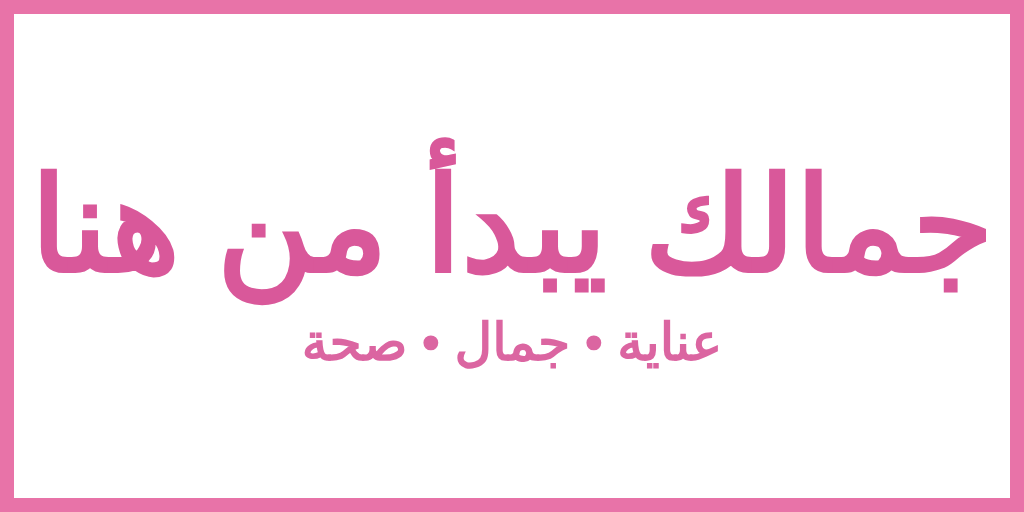
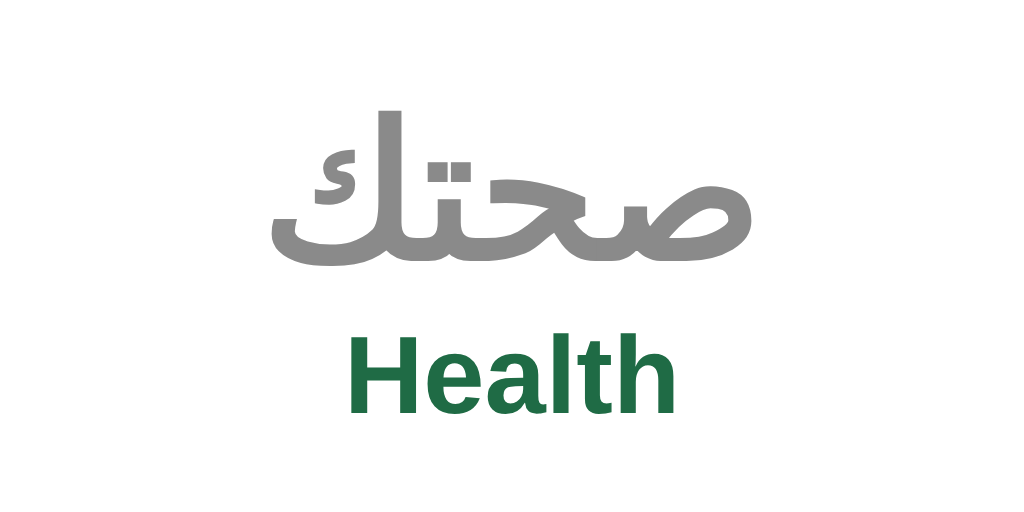
Wall boards in the style of the real branches: watercolour splashes and plain lettering [skip ci]
Claude-Session: https://claude.ai/code/session_011Bqe7REfYteQ2eG9a3xsq3

Changed region(s): [[0.0, 0.0, 1.0, 1.0], [0.2812, 0.625, 0.7188, 0.8125]]

diff --git a/static/plan.html b/static/plan.html
@@ -1536,20 +1536,29 @@ function build(renderer){
   // ---------- iBrand boards high on the walls ----------
   {
     const dots = (x, W, Hh, col) => { x.fillStyle = col; [[.08,.2,90],[.9,.78,130],[.82,.14,46],[.16,.86,60],[.5,1.05,170]].forEach(([u, v, r]) => { x.beginPath(); x.arc(u*W, v*Hh, r, 0, Math.PI*2); x.fill(); }); };
-    const two = (x, W, big, small, c1, c2) => { x.textAlign = 'center'; x.textBaseline = 'middle'; x.direction = 'rtl';
-      x.fillStyle = c1; fitText(x, big, W - 160, 800, 150); x.fillText(big, W/2, 185);
-      x.fillStyle = c2; fitText(x, small, W - 220, 700, 60); x.fillText(small, W/2, 335); };
-    const pinkB = (big, small) => canvasTex(1024, 448, (x, W, Hh) => { const g = x.createLinearGradient(0, 0, W, Hh); g.addColorStop(0, '#f08bbb'); g.addColorStop(1, '#c9518b'); x.fillStyle = g; x.fillRect(0, 0, W, Hh); dots(x, W, Hh, 'rgba(255,255,255,.13)'); two(x, W, big, small, '#ffffff', 'rgba(255,255,255,.92)'); });
-    const whiteB = (big, small) => canvasTex(1024, 448, (x, W, Hh) => { x.fillStyle = '#ffffff'; x.fillRect(0, 0, W, Hh); dots(x, W, Hh, 'rgba(232,115,168,.12)'); x.strokeStyle = PINK; x.lineWidth = 18; x.strokeRect(9, 9, W - 18, Hh - 18); two(x, W, big, small, PINK_DEEP, PLUM); });
-    // the kind of lines real pharmacies hang on their walls
+    // boards in the style of the real iBrand branches: white wall, a watercolour splash with a short line, or plain lettering
+    const splash = (x, cx, cy, rx, ry, cols, seed) => { let sd = seed; const rnd = () => (sd = (sd * 16807) % 2147483647) / 2147483647;
+      for (let i = 0; i < 70; i++){ const a = rnd() * Math.PI * 2, d = Math.sqrt(rnd()), px = cx + Math.cos(a) * d * rx, py = cy + Math.sin(a) * d * ry, r = (.28 + rnd() * .5) * ry * (1.15 - d * .55);
+        const g = x.createRadialGradient(px, py, 0, px, py, r), c = cols[(rnd() * cols.length) | 0]; g.addColorStop(0, c + 'aa'); g.addColorStop(.7, c + '66'); g.addColorStop(1, c + '00');
+        x.fillStyle = g; x.beginPath(); x.arc(px, py, r, 0, Math.PI * 2); x.fill(); } };
+    const base = (x, W, Hh) => { x.fillStyle = '#ffffff'; x.fillRect(0, 0, W, Hh); x.textAlign = 'center'; x.textBaseline = 'middle'; };
+    // the line sits inside the splash, in white
+    const splashB = (big, cols, seed) => canvasTex(1024, 448, (x, W, Hh) => { base(x, W, Hh); splash(x, W/2, Hh/2, 300, 150, cols, seed);
+      x.direction = 'rtl'; x.fillStyle = '#ffffff'; fitText(x, big, 480, 800, 150); x.fillText(big, W/2, Hh/2 + 4); });
+    // a splash above, the line under it in two languages
+    const underB = (ar, en, cols, cEn, seed) => canvasTex(1024, 448, (x, W, Hh) => { base(x, W, Hh); splash(x, W/2, 140, 210, 95, cols, seed);
+      x.direction = 'ltr'; x.fillStyle = cEn; x.font = '700 62px Arial, sans-serif'; x.fillText(en, W/2, 300);
+      x.direction = 'rtl'; x.fillStyle = '#1d1d1f'; fitText(x, ar, W - 200, 800, 78); x.fillText(ar, W/2, 385); });
+    // plain lettering on the white wall
+    const plainB = (ar, en, cAr, cEn) => canvasTex(1024, 448, (x, W, Hh) => { base(x, W, Hh);
+      x.direction = 'rtl'; x.fillStyle = cAr; fitText(x, ar, W - 200, 800, 170); x.fillText(ar, W/2, 165);
+      x.direction = 'ltr'; x.fillStyle = cEn; x.font = '800 96px Arial, sans-serif'; x.fillText(en, W/2, 335); });
     const boards = [
-      pinkB('صحتك أولاً', 'صيدليات اي براند'),
-      canvasTex(1024, 448, (x, W, Hh) => { x.fillStyle = PLUM; x.fillRect(0, 0, W, Hh); dots(x, W, Hh, 'rgba(232,115,168,.2)');
-        x.fillStyle = PINK; x.textAlign = 'center'; x.textBaseline = 'middle'; x.direction = 'ltr'; x.font = '800 190px Arial, sans-serif'; x.fillText('iBRAND', W/2, 180);
-        x.fillStyle = '#ffffff'; x.direction = 'rtl'; fitText(x, 'اي براند', W - 150, 700, 80); x.fillText('اي براند', W/2, 340); }),
-      whiteB('جمالك يبدأ من هنا', 'عناية • جمال • صحة'),
-      pinkB('عنايتك تهمنا', 'صيدليات اي براند'),
-      whiteB('لكل أفراد العائلة', 'كل ما تحتاجه في مكان واحد')
+      splashB('لجمالك', ['#d98bb0', '#8e4a8f', '#c0669e', '#6f3a78'], 11),
+      plainB('صحتك', 'Health', '#8a8a8a', '#1f6b45'),
+      underB('احتياجاتك اليومية', 'Daily Essentials', ['#e9b9a2', '#d99a80', '#f0cdb8'], '#c46a4e', 23),
+      underB('جمالك في روحك', 'Lovely Inside Out', ['#7c2a34', '#5e1f29', '#96404a'], '#3a3a3c', 37),
+      plainB('العناية بالرجل', 'MAN CARE', '#1d1d1f', '#1d1d1f')
     ].map(t => new THREE.MeshBasicMaterial({map:t, toneMapped:false}));
     const PWd = 4.6, PHt = PWd*448/1024, rim = std('#ffffff', {roughness:.4}); let bi = 0;
     const board = (x, y, z, yaw) => { const g = new THREE.Group(); g.position.set(x, y, z); g.rotation.y = yaw;

diff --git a/scripts/plan-layout.js b/scripts/plan-layout.js
@@ -376,20 +376,29 @@
   // ---------- iBrand boards high on the walls ----------
   {
     const dots = (x, W, Hh, col) => { x.fillStyle = col; [[.08,.2,90],[.9,.78,130],[.82,.14,46],[.16,.86,60],[.5,1.05,170]].forEach(([u, v, r]) => { x.beginPath(); x.arc(u*W, v*Hh, r, 0, Math.PI*2); x.fill(); }); };
-    const two = (x, W, big, small, c1, c2) => { x.textAlign = 'center'; x.textBaseline = 'middle'; x.direction = 'rtl';
-      x.fillStyle = c1; fitText(x, big, W - 160, 800, 150); x.fillText(big, W/2, 185);
-      x.fillStyle = c2; fitText(x, small, W - 220, 700, 60); x.fillText(small, W/2, 335); };
-    const pinkB = (big, small) => canvasTex(1024, 448, (x, W, Hh) => { const g = x.createLinearGradient(0, 0, W, Hh); g.addColorStop(0, '#f08bbb'); g.addColorStop(1, '#c9518b'); x.fillStyle = g; x.fillRect(0, 0, W, Hh); dots(x, W, Hh, 'rgba(255,255,255,.13)'); two(x, W, big, small, '#ffffff', 'rgba(255,255,255,.92)'); });
-    const whiteB = (big, small) => canvasTex(1024, 448, (x, W, Hh) => { x.fillStyle = '#ffffff'; x.fillRect(0, 0, W, Hh); dots(x, W, Hh, 'rgba(232,115,168,.12)'); x.strokeStyle = PINK; x.lineWidth = 18; x.strokeRect(9, 9, W - 18, Hh - 18); two(x, W, big, small, PINK_DEEP, PLUM); });
-    // the kind of lines real pharmacies hang on their walls
+    // boards in the style of the real iBrand branches: white wall, a watercolour splash with a short line, or plain lettering
+    const splash = (x, cx, cy, rx, ry, cols, seed) => { let sd = seed; const rnd = () => (sd = (sd * 16807) % 2147483647) / 2147483647;
+      for (let i = 0; i < 70; i++){ const a = rnd() * Math.PI * 2, d = Math.sqrt(rnd()), px = cx + Math.cos(a) * d * rx, py = cy + Math.sin(a) * d * ry, r = (.28 + rnd() * .5) * ry * (1.15 - d * .55);
+        const g = x.createRadialGradient(px, py, 0, px, py, r), c = cols[(rnd() * cols.length) | 0]; g.addColorStop(0, c + 'aa'); g.addColorStop(.7, c + '66'); g.addColorStop(1, c + '00');
+        x.fillStyle = g; x.beginPath(); x.arc(px, py, r, 0, Math.PI * 2); x.fill(); } };
+    const base = (x, W, Hh) => { x.fillStyle = '#ffffff'; x.fillRect(0, 0, W, Hh); x.textAlign = 'center'; x.textBaseline = 'middle'; };
+    // the line sits inside the splash, in white
+    const splashB = (big, cols, seed) => canvasTex(1024, 448, (x, W, Hh) => { base(x, W, Hh); splash(x, W/2, Hh/2, 300, 150, cols, seed);
+      x.direction = 'rtl'; x.fillStyle = '#ffffff'; fitText(x, big, 480, 800, 150); x.fillText(big, W/2, Hh/2 + 4); });
+    // a splash above, the line under it in two languages
+    const underB = (ar, en, cols, cEn, seed) => canvasTex(1024, 448, (x, W, Hh) => { base(x, W, Hh); splash(x, W/2, 140, 210, 95, cols, seed);
+      x.direction = 'ltr'; x.fillStyle = cEn; x.font = '700 62px Arial, sans-serif'; x.fillText(en, W/2, 300);
+      x.direction = 'rtl'; x.fillStyle = '#1d1d1f'; fitText(x, ar, W - 200, 800, 78); x.fillText(ar, W/2, 385); });
+    // plain lettering on the white wall
+    const plainB = (ar, en, cAr, cEn) => canvasTex(1024, 448, (x, W, Hh) => { base(x, W, Hh);
+      x.direction = 'rtl'; x.fillStyle = cAr; fitText(x, ar, W - 200, 800, 170); x.fillText(ar, W/2, 165);
+      x.direction = 'ltr'; x.fillStyle = cEn; x.font = '800 96px Arial, sans-serif'; x.fillText(en, W/2, 335); });
     const boards = [
-      pinkB('صحتك أولاً', 'صيدليات اي براند'),
-      canvasTex(1024, 448, (x, W, Hh) => { x.fillStyle = PLUM; x.fillRect(0, 0, W, Hh); dots(x, W, Hh, 'rgba(232,115,168,.2)');
-        x.fillStyle = PINK; x.textAlign = 'center'; x.textBaseline = 'middle'; x.direction = 'ltr'; x.font = '800 190px Arial, sans-serif'; x.fillText('iBRAND', W/2, 180);
-        x.fillStyle = '#ffffff'; x.direction = 'rtl'; fitText(x, 'اي براند', W - 150, 700, 80); x.fillText('اي براند', W/2, 340); }),
-      whiteB('جمالك يبدأ من هنا', 'عناية • جمال • صحة'),
-      pinkB('عنايتك تهمنا', 'صيدليات اي براند'),
-      whiteB('لكل أفراد العائلة', 'كل ما تحتاجه في مكان واحد')
+      splashB('لجمالك', ['#d98bb0', '#8e4a8f', '#c0669e', '#6f3a78'], 11),
+      plainB('صحتك', 'Health', '#8a8a8a', '#1f6b45'),
+      underB('احتياجاتك اليومية', 'Daily Essentials', ['#e9b9a2', '#d99a80', '#f0cdb8'], '#c46a4e', 23),
+      underB('جمالك في روحك', 'Lovely Inside Out', ['#7c2a34', '#5e1f29', '#96404a'], '#3a3a3c', 37),
+      plainB('العناية بالرجل', 'MAN CARE', '#1d1d1f', '#1d1d1f')
     ].map(t => new THREE.MeshBasicMaterial({map:t, toneMapped:false}));
     const PWd = 4.6, PHt = PWd*448/1024, rim = std('#ffffff', {roughness:.4}); let bi = 0;
     const board = (x, y, z, yaw) => { const g = new THREE.Group(); g.position.set(x, y, z); g.rotation.y = yaw;
